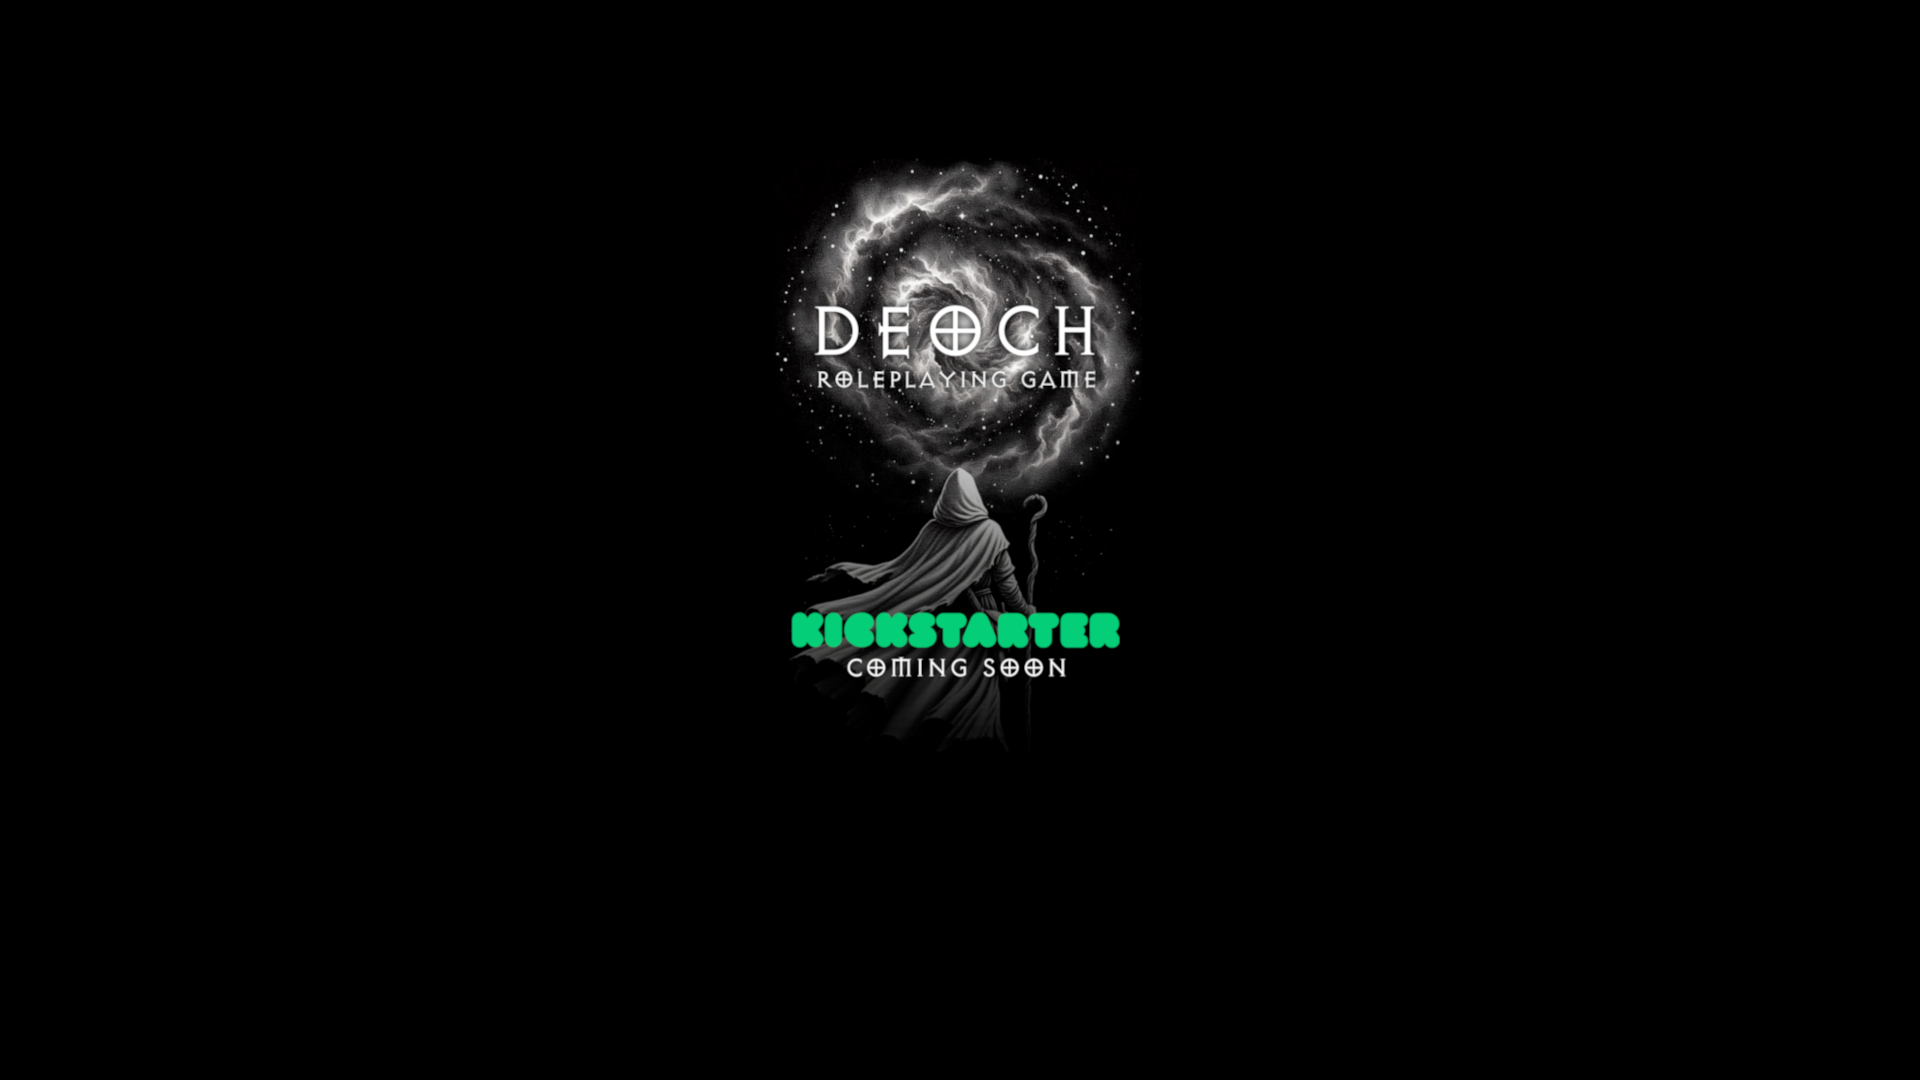
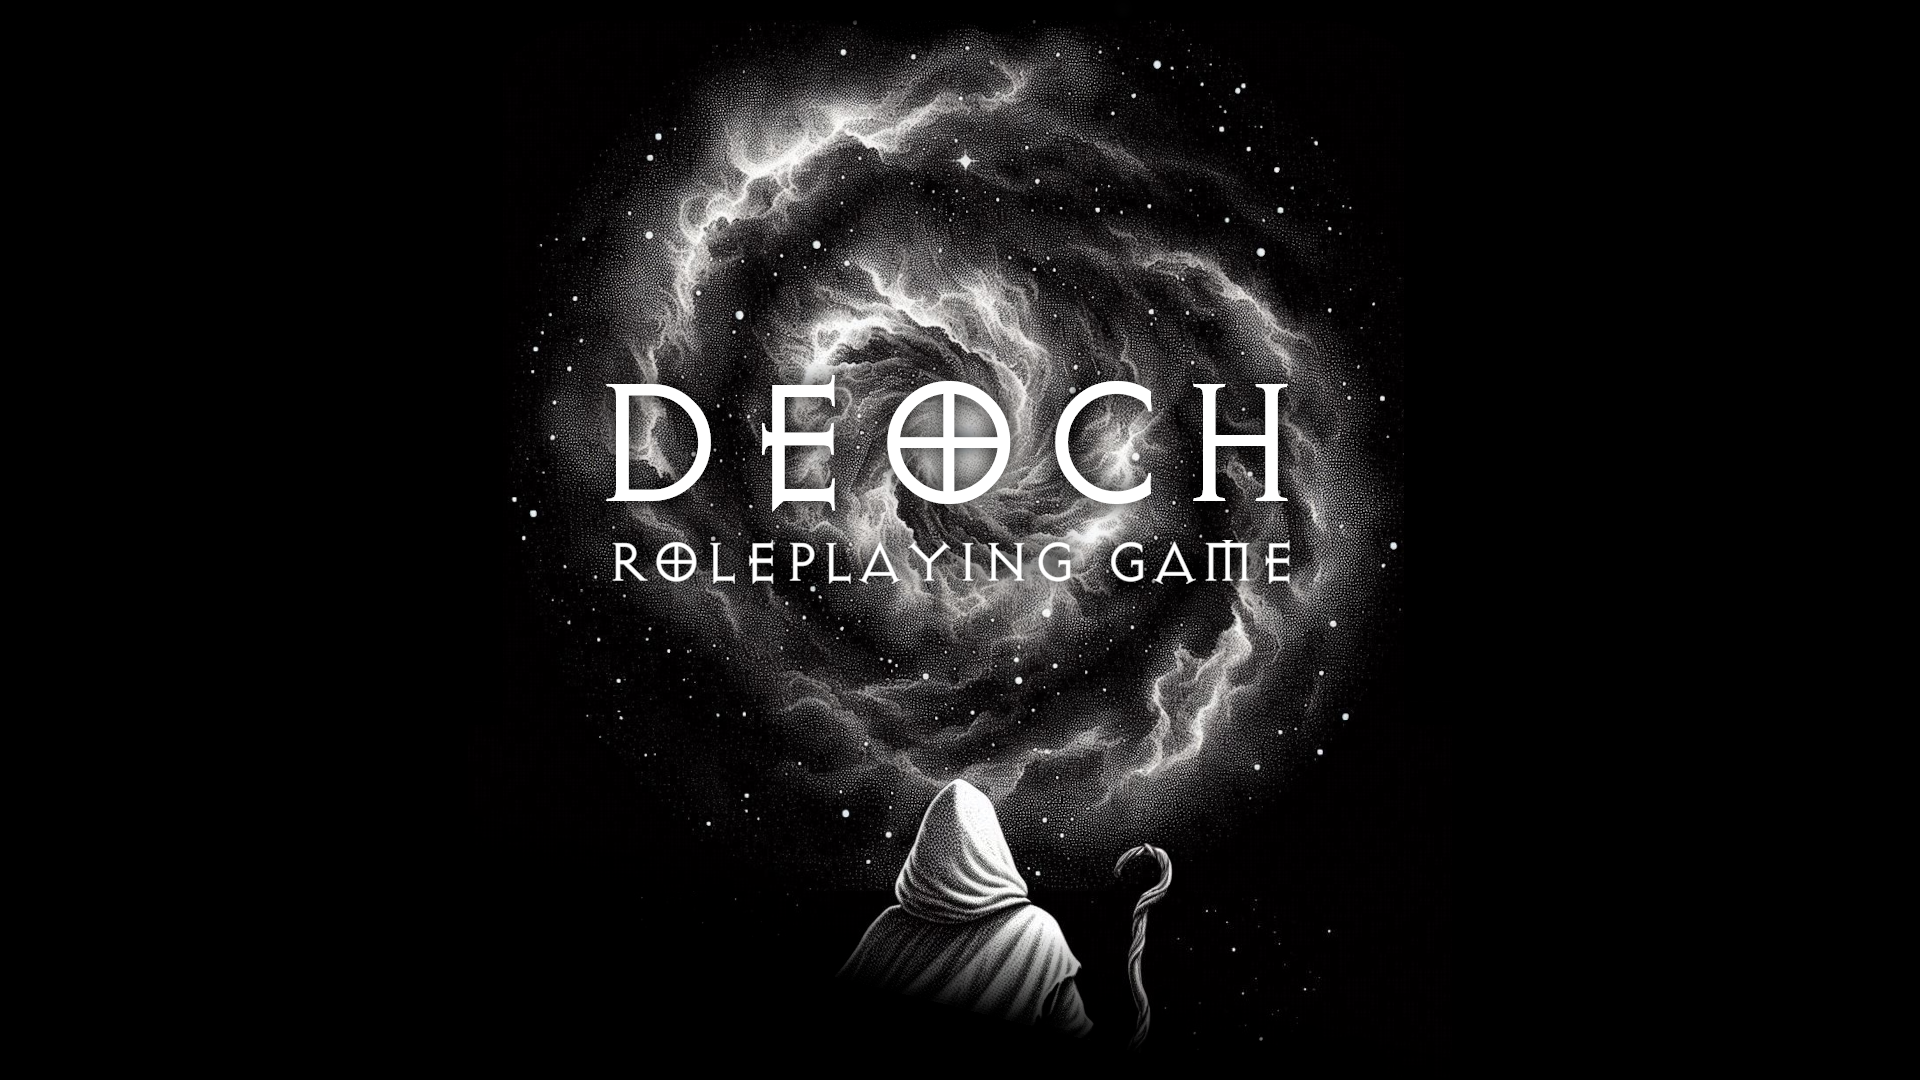
5th commit (changes to outlay)

Changed region(s): [[0.2812, 0.0306, 0.7188, 0.9472]]

diff --git a/charactersheet.html b/charactersheet.html
@@ -32,7 +32,7 @@
     
             <div class="col-4">
     
-              <h2>Player Level</h2>
+              <h2>Level</h2>
     
               <input class="stat" type="number" id="playerLevel" min="0" max="10" value="0" onchange="playerLevelChange();">
               <br>Proficency Bonus
@@ -129,7 +129,7 @@
               </tr>
               <br>
               <tr>
-                <td><input type="checkbox" id="cantLang" <td>Thieves Cant</td>
+                <td><input type="checkbox" id="cantLang" <td>Savvy</td>
               </tr>
     
               <br><br>
@@ -140,30 +140,6 @@
             </div>
     
             <div class="col-4">
-    
-              <h2>Armor</h2>
-    
-              <h6>Equipped Armor:</h6>
-              <select id="equippedArmor" onchange="equipArmor(this);">
-                <option value="unarmored">None</option>
-                <optgroup id="lightArmor" value="Light Armor" label="Light Armor">
-                  <option value="padded">Padded</option>
-                  <option value="leather">Leather</option>
-                  <option value="studded">Studded Leather</option>
-                </optgroup>
-                <optgroup id="mediumArmor" value="Medium Armor" label="Medium Armor">
-                  <option value="hide">Hide</option>
-                  <option value="scale">Scale Mail</option>
-                  <option value="breastplate">Breastplate</option>
-                </optgroup>
-                <optgroup id="heavyArmor" value="Heavy Armor" label="Heavy Armor">
-                  <option id="chainmailArmor" value="chainmail">Chain Mail</option>
-                  <option id="splintArmor" value="splint">Splint</option>
-                  <option id="plateArmor" value="plate">Plate</option>
-                </optgroup>
-              </select>
-    
-              <br><br>
               <h6>Equipped Shield:</h6>
               <select id="equippedShield" onchange="shieldEquip(this);">
                 <option value="none">None</option>
@@ -173,7 +149,7 @@
               </select>
               <br><br>
     
-              <h6>AC:</h6><input class="stat" type="number" id="armorClass" placeholder="0">
+              <h6>AC:</h6><input class="stat" type="number" id="armorClass" placeholder="9">
     
               <br><br>
               <tr>
@@ -234,15 +210,15 @@
                   <span class="btn btn-info" onclick="takeMana();">Cast Spell</span>
     
                   <select id="modMana">
-                    <option>4</option>
+                    <option>2</option>
+                    <option>3</option>
+                    <option>5</option>
                     <option>6</option>
+                    <option>7</option>
+                    <option>9</option>
                     <option>10</option>
-                    <option>12</option>
-                    <option>14</option>
-                    <option>18</option>
-                    <option>20</option>
-                    <option>22</option>
-                    <option>26</option>
+                    <option>11</option>
+                    <option>13</option>
                   </select>
                 </div>
               </div>

diff --git a/style.css b/style.css
@@ -23,11 +23,11 @@
   
 
   .big-image {
-    background-image: url(Images/websitebackground.png);
-    background-size: cover; 
+    background-image: url(Images/websitebackground1.png);
+    background-size: contain; 
     background-repeat: no-repeat;
     background-position: center;
-    height: 100vh; 
+    height: 150vh; 
     width: 100%; 
   }
   textarea{
